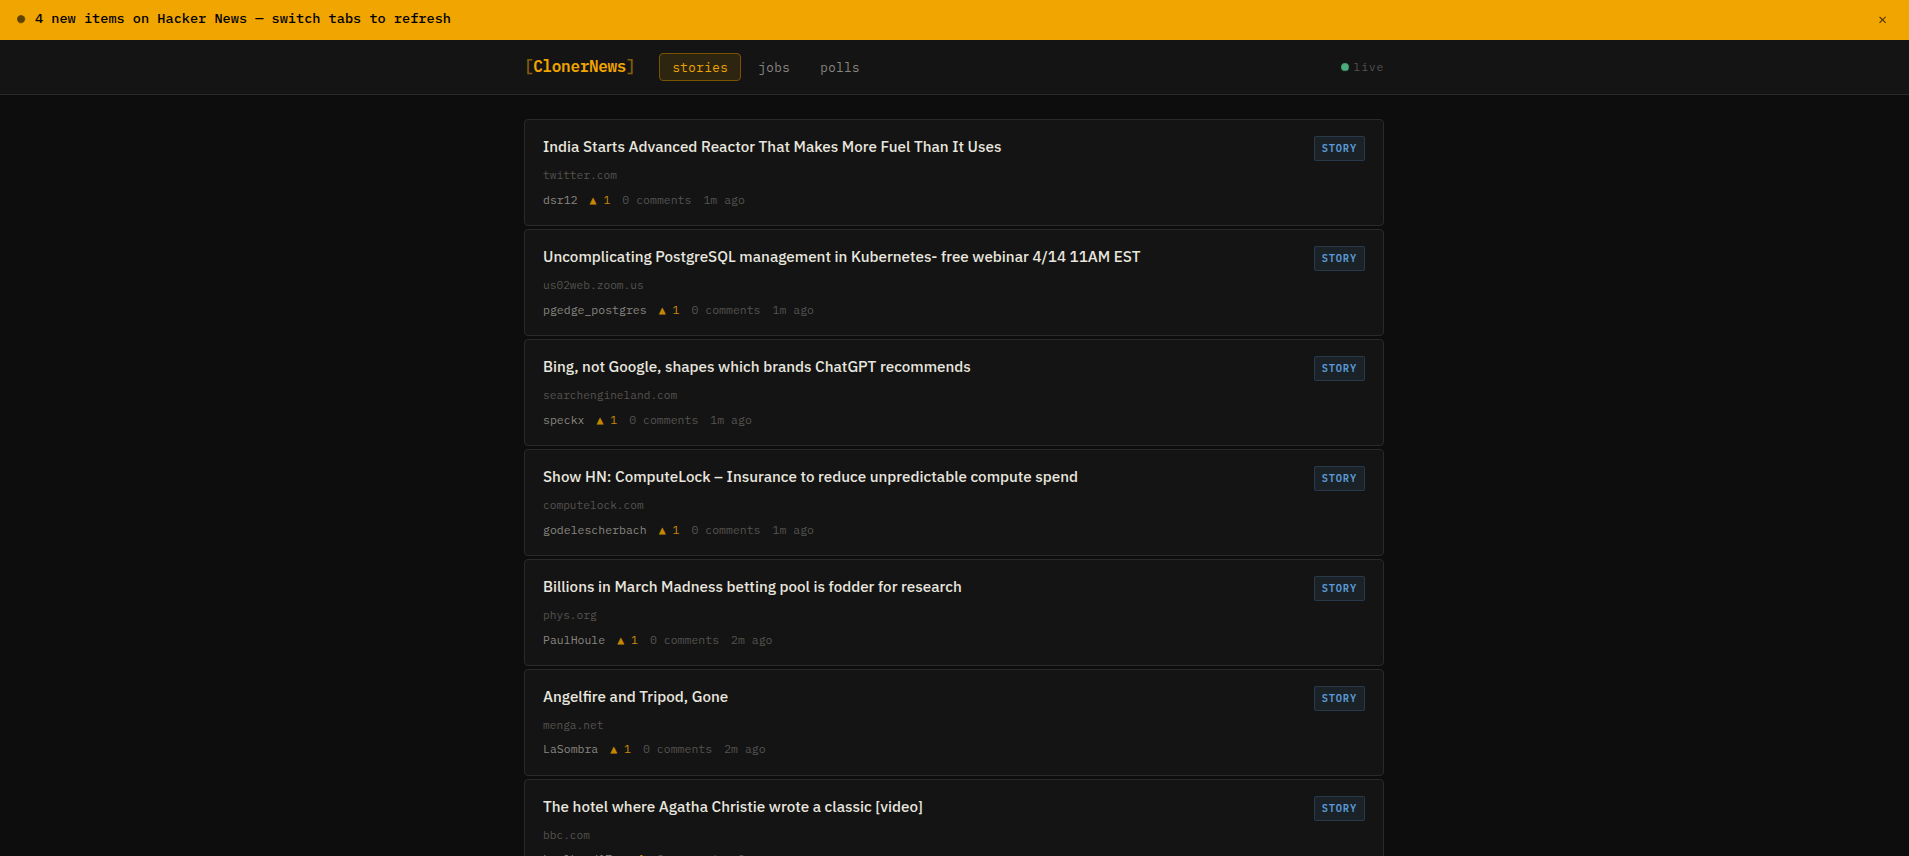
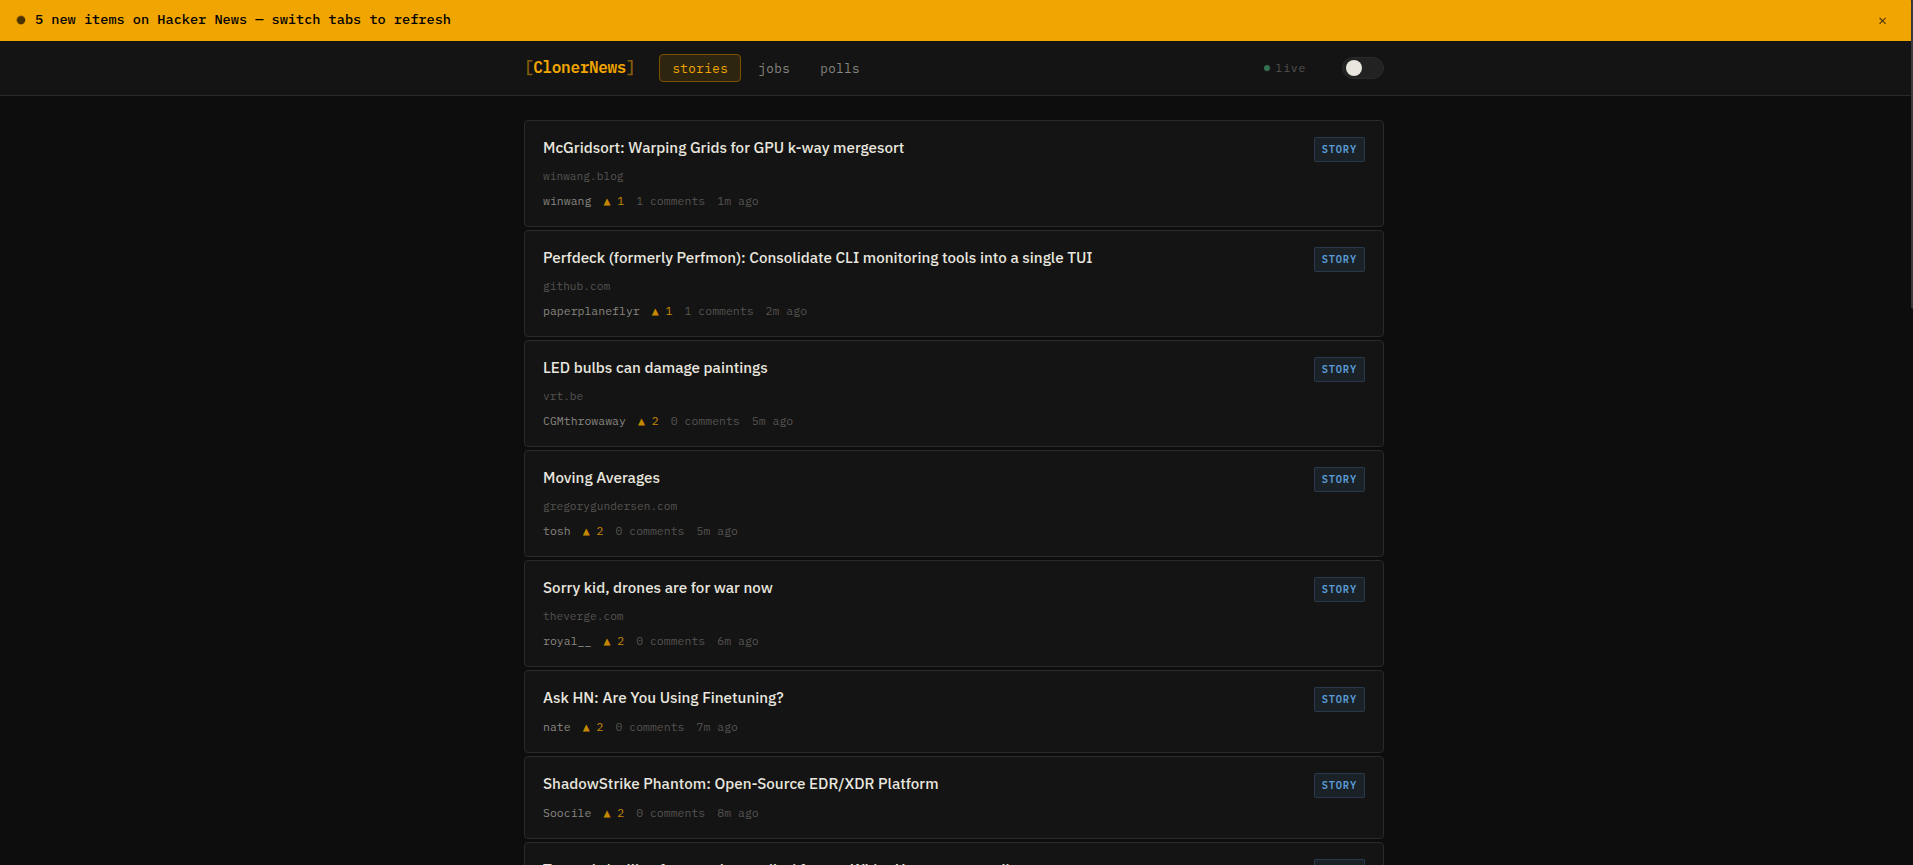
update readme.md

diff --git a/README.md b/README.md
@@ -13,7 +13,7 @@ A minimal Hacker News client built with **vanilla JavaScript**, focused on perfo
 - 🧠 In-memory caching (TTL-based)
 - 🧵 Post detail + comments view
 - 📊 Poll support (via Algolia API)
-- 🎨 Clean, responsive dark UI
+- 🎨 Clean, responsive UI with light & dark mode toggle
 
 ---
 
